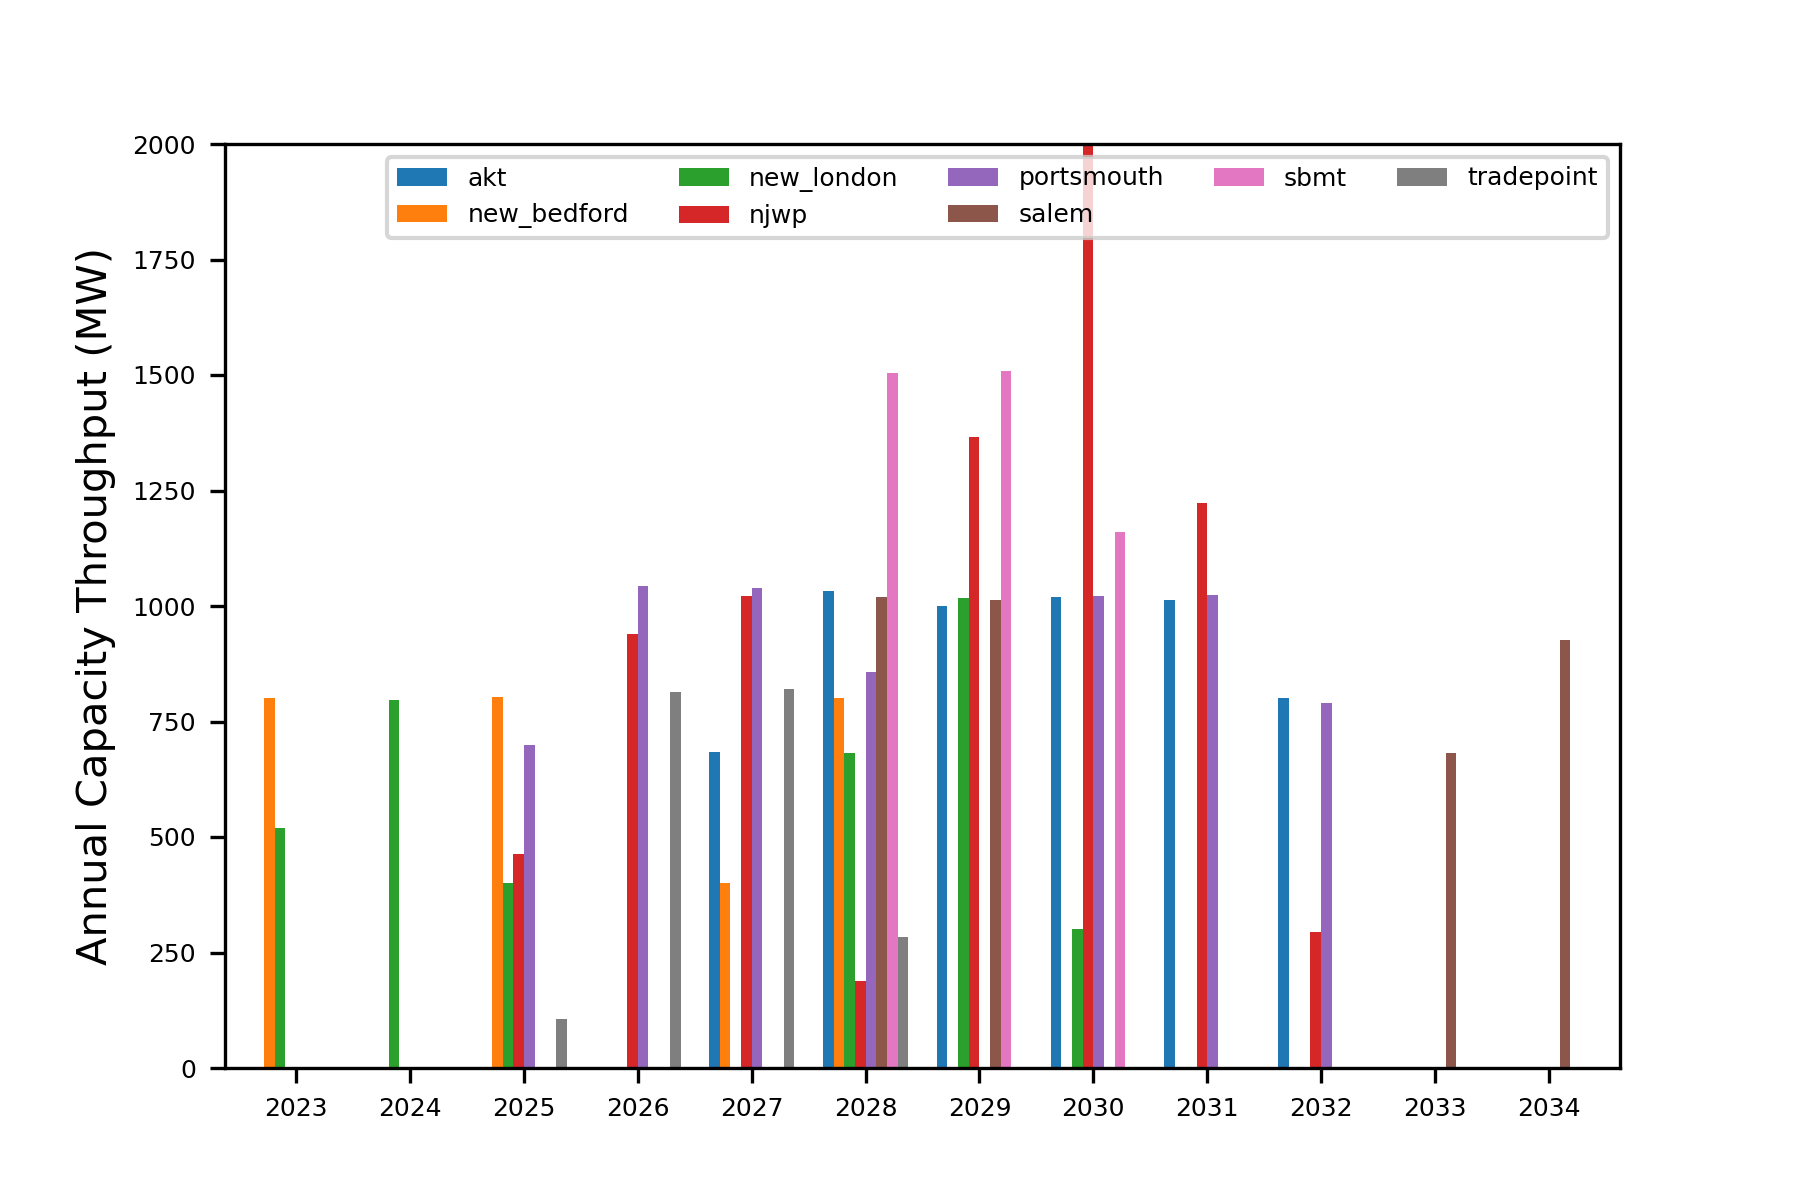
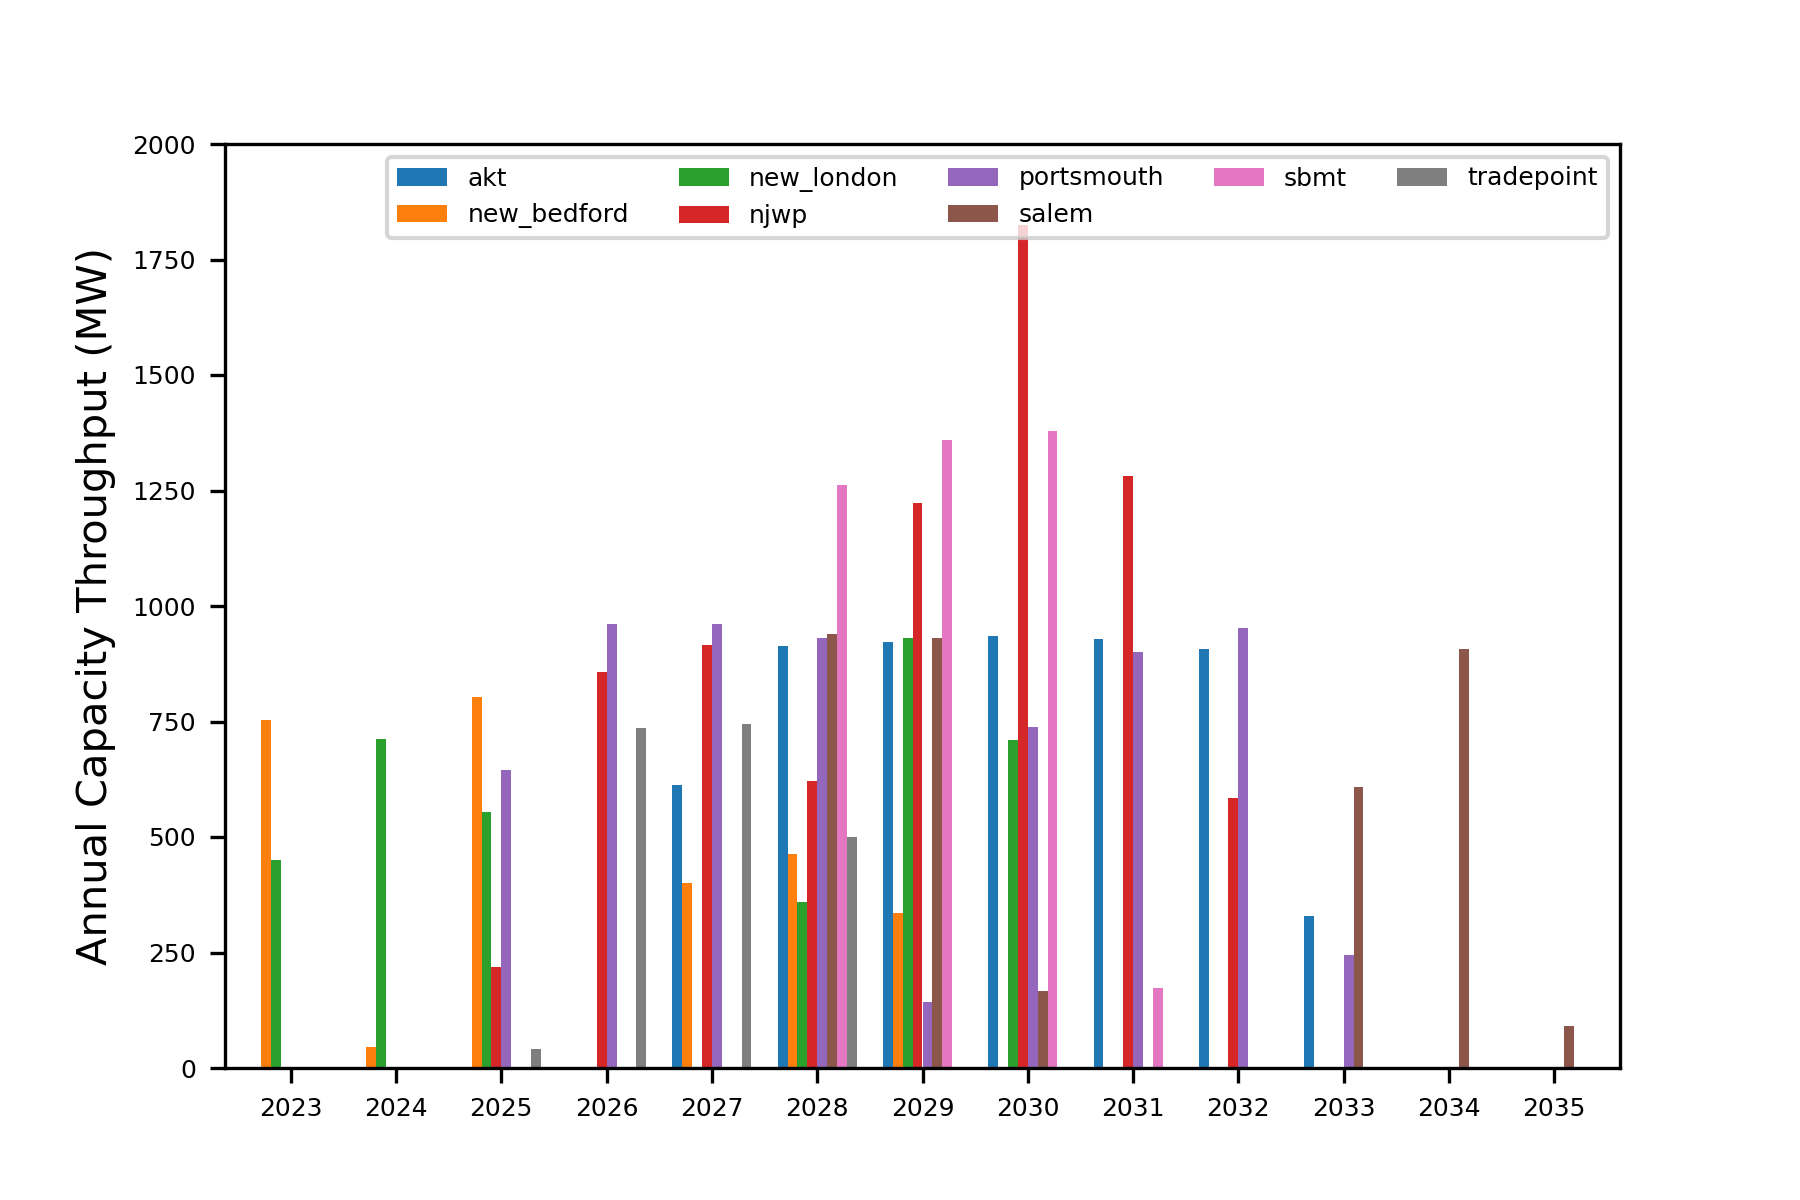
Initial feeder scenarios - HACK define 50% of feeders actually needed'

diff --git a/run_analysis.py b/run_analysis.py
@@ -20,21 +20,21 @@ from helpers import investments as inv
 from helpers import plot_names_map as pnm
 
 scenarios = {
-    # 'baseline': {'pipeline': ip['base'],
-    #              'initial': ia['base'],
-    #              'future': fa['base'],
-    #              'invest': [inv['base']],
-    #              'enforce_feeders': False,
-    #              'color_install': '#3D7F0B',
-    #              'color_delay': '#BBEB96'},
-    #  'US_WTIV': {'pipeline': ip['add_ports'],
-    #               'initial': ia['us_wtiv'],
-    #               'future': fa['us_wtiv'],
-    #               'invest': [inv['us_wtiv']],
-    #               'enforce_feeders': False,
-    #               'color_install': '#0D3D5C',
-    #               'color_delay': '#7EA5BF'
-    #               },
+    'baseline': {'pipeline': ip['base'],
+                 'initial': ia['base'],
+                 'future': fa['base'],
+                 'invest': [inv['base']],
+                 'enforce_feeders': False,
+                 'color_install': '#3D7F0B',
+                 'color_delay': '#BBEB96'},
+     'US_WTIV': {'pipeline': ip['add_ports'],
+                  'initial': ia['us_wtiv'],
+                  'future': fa['us_wtiv'],
+                  'invest': [inv['us_wtiv']],
+                  'enforce_feeders': False,
+                  'color_install': '#0D3D5C',
+                  'color_delay': '#7EA5BF'
+                  },
        'US_feeder': {'pipeline': ip['add_ports'],
                     'initial': ia['us_feeder'],
                     'future': fa['us_feeder'],
@@ -77,7 +77,7 @@ if __name__ == '__main__':
         num_wtiv = allocations['wtiv'][1]
         num_port = len(allocations['port'])
 
-        manager = GlobalManager(pipeline.configs, allocations, library_path=library_path)
+        manager = GlobalManager(pipeline.configs, allocations, library_path=library_path, weather=weather)
 
         new_wtiv = [1 for fr in future_resources if 'wtiv' in fr]
         new_ports = [1 for fr in future_resources if 'port' in fr]

diff --git a/helpers.py b/helpers.py
@@ -10,7 +10,7 @@ input_pipelines = {
 initial_allocations = {
 'base': {
     "wtiv": [('example_wtiv', 2),('example_heavy_lift_vessel', 2)],
-    "feeder": ('example_feeder', 4),
+    "feeder": ('example_feeder', 2),
     "port": [
         ('new_bedford', 1),
         ('new_london', 1),
@@ -24,7 +24,7 @@ initial_allocations = {
     },
 'us_wtiv': {
     "wtiv": [('example_wtiv', 2),('example_heavy_lift_vessel', 3)],  # Need an extra HLV from the start of th esimulation
-    "feeder": ('example_feeder', 4),
+    "feeder": ('example_feeder', 2),
     "port": [
         ('new_bedford', 1),
         ('new_london', 1),
@@ -74,8 +74,8 @@ future_allocations = {
     # ['wtiv', 'example_heavy_lift_vessel', [dt.datetime(2027, 1, 1)]],
     # ['wtiv', 'example_heavy_lift_vessel', [dt.datetime(2027, 1, 1)]],
     # ['wtiv', 'example_heavy_lift_vessel', [dt.datetime(2027, 1, 1)]],
-    # ['feeder', 'example_feeder', [dt.datetime(2025,1,1)]],
-    # ['feeder', 'example_feeder', [dt.datetime(2025,1,1)]],
+    ['feeder', 'example_feeder', [dt.datetime(2026,1,1)]],
+    ['feeder', 'example_feeder', [dt.datetime(2026,1,1)]],
     # ['feeder', 'example_feeder', [dt.datetime(2025,1,1)]],
     # ['feeder', 'example_feeder', [dt.datetime(2025,1,1)]],
     # ['feeder', 'example_feeder', [dt.datetime(2025,1,1)]],
